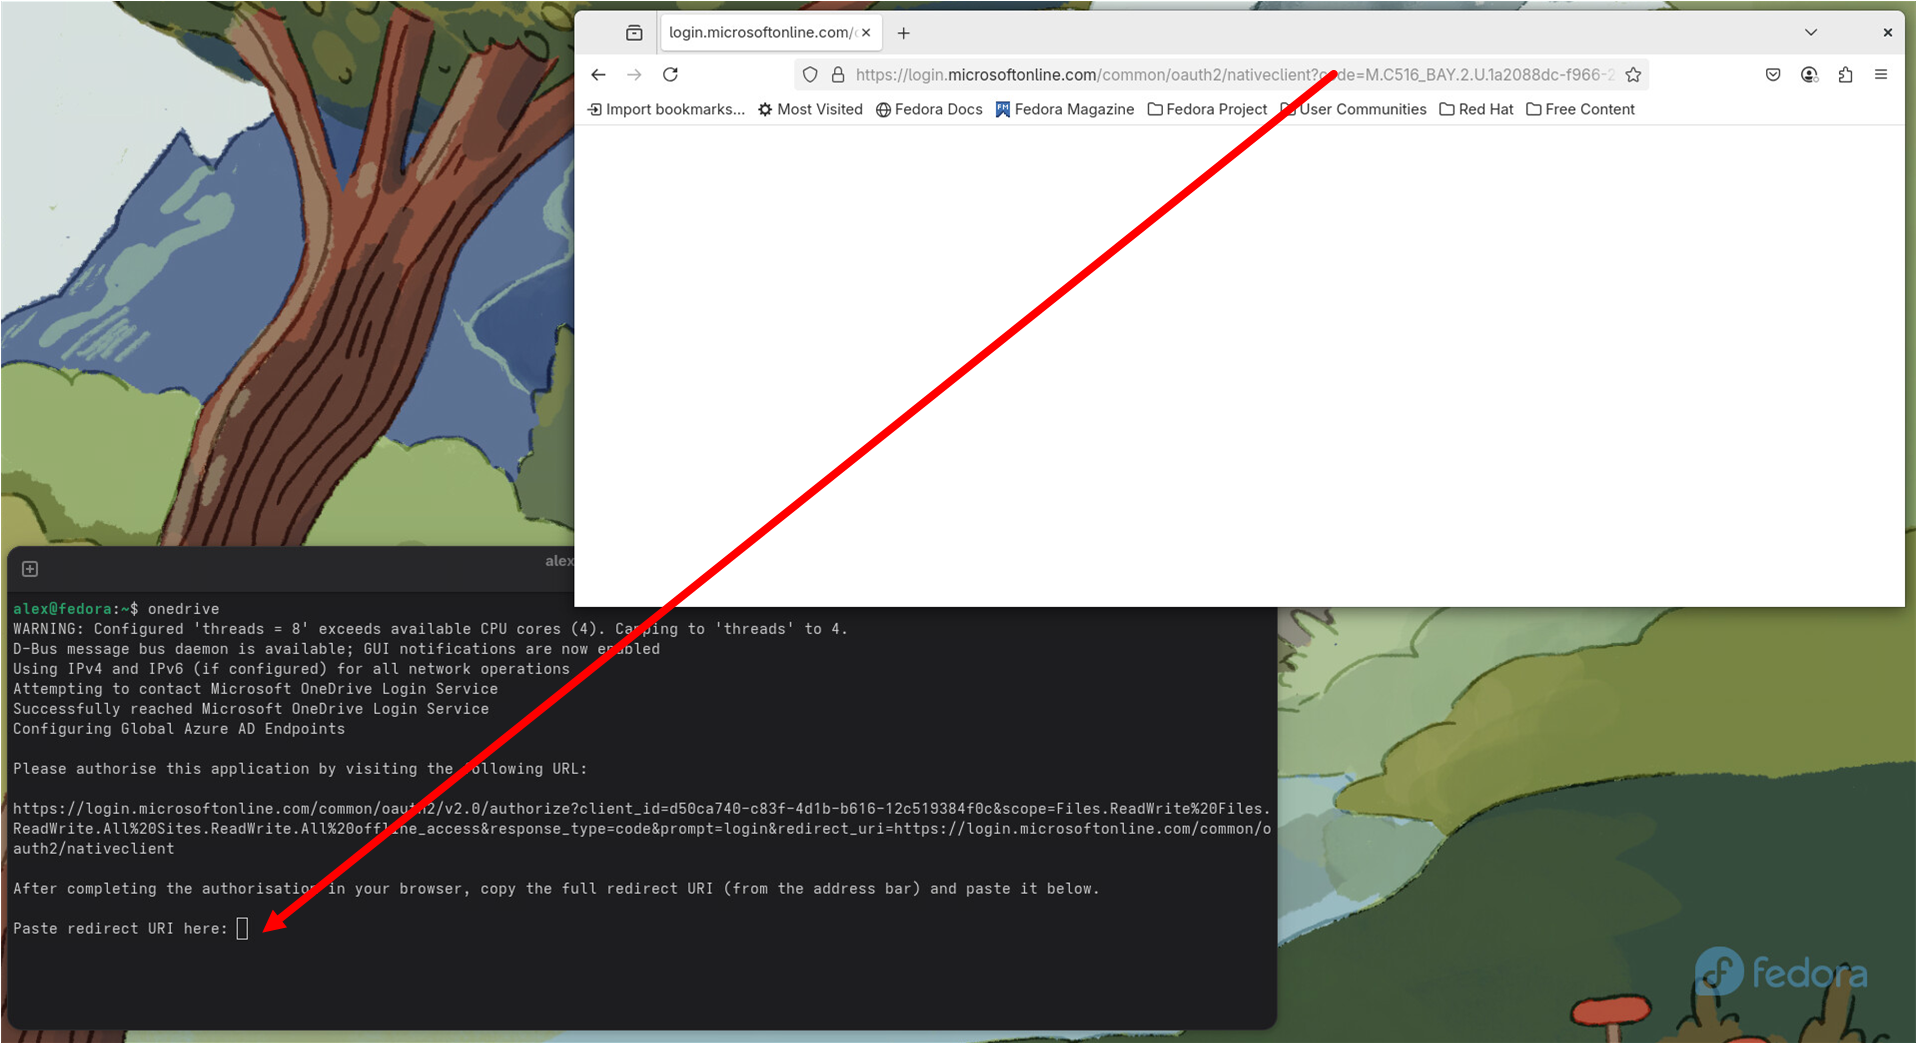
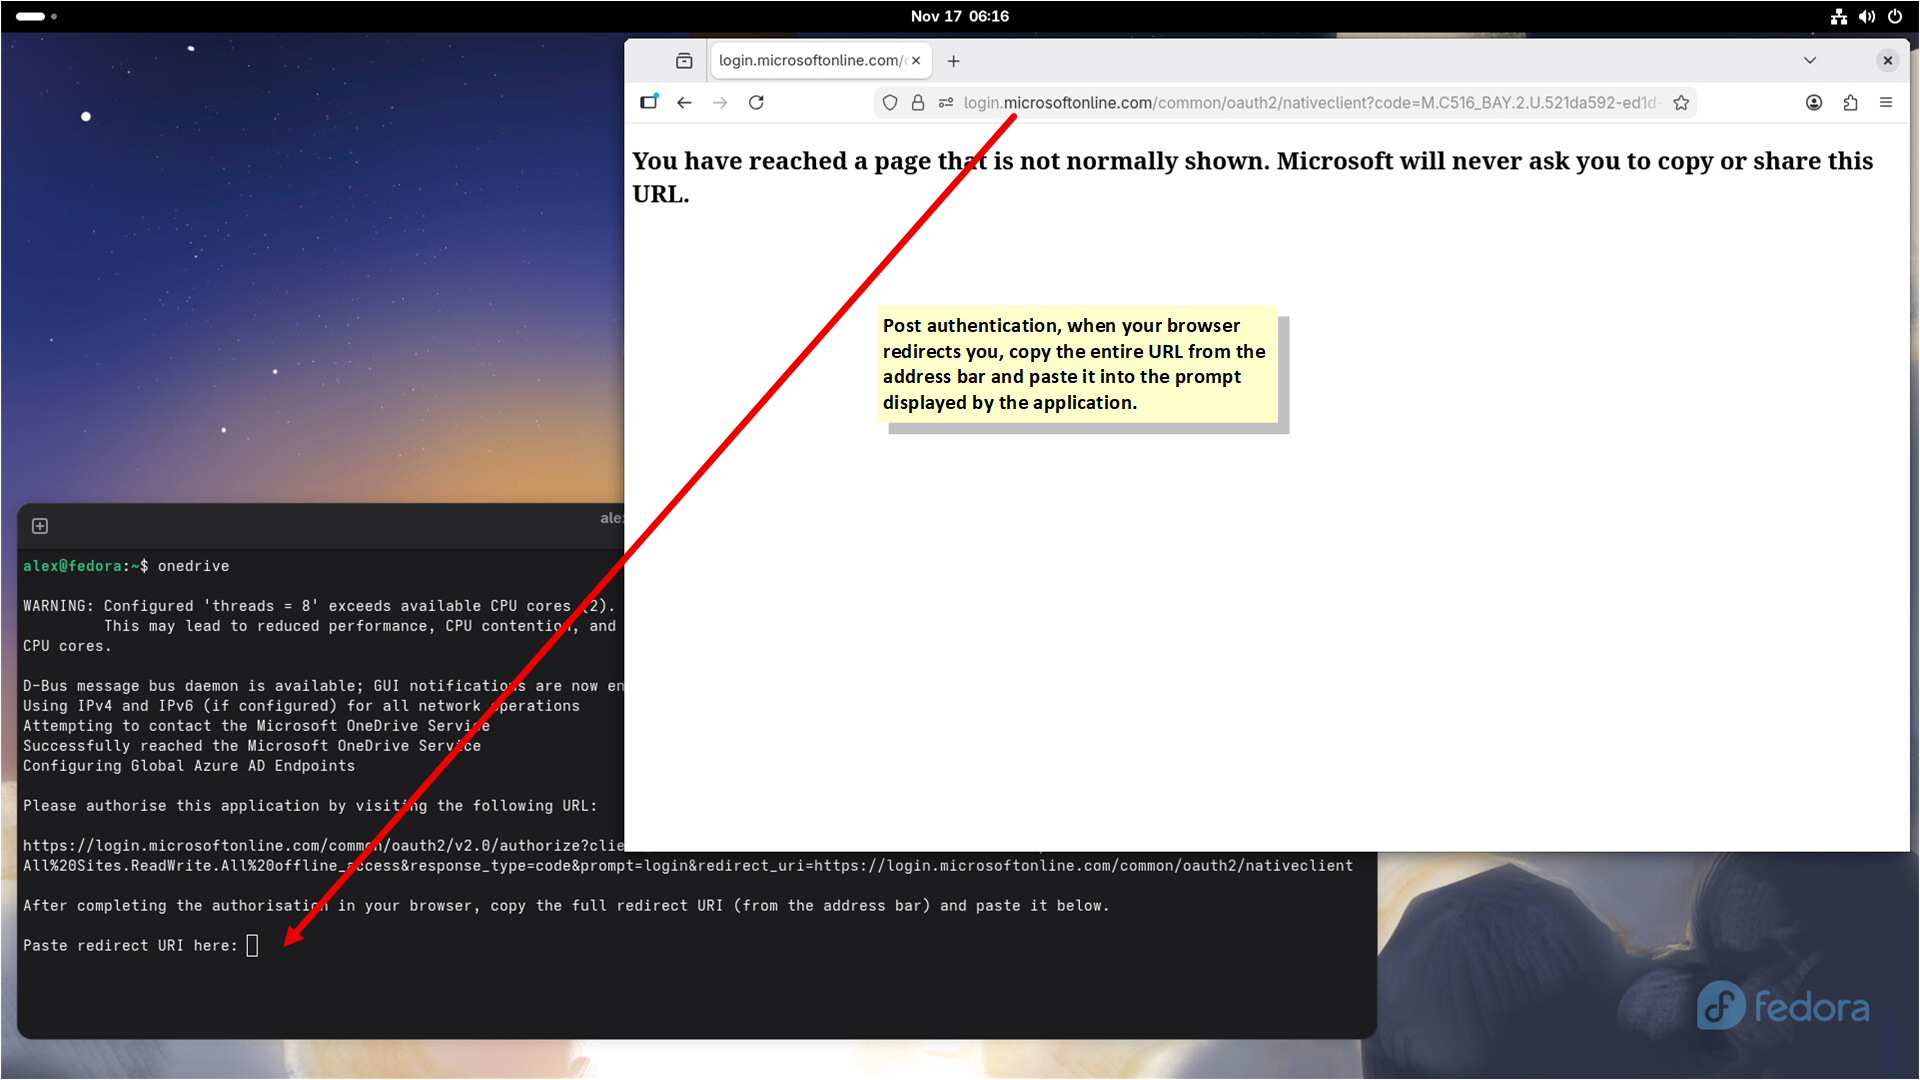
Update OAuth2 Authentication Process Diagrams (#3537)
* Update OAuth2 Authentication Process Diagrams

diff --git a/docs/usage.md b/docs/usage.md
@@ -362,7 +362,11 @@ This client supports the following methods to authenticate the application with 
 #### Interactive Authentication using OAuth2 and a redirect URI
 When you run the application for the first time, you'll be prompted to open a specific URL in your web browser. This URL takes you to the Microsoft login page, where you’ll sign in with your Microsoft Account and grant the application permission to access your files.
 
-After granting permission, your browser will redirect you to a blank page. This is expected behaviour.
+After granting permission, your browser will redirect you to a blank page, or a page that displays this message: 
+
+![microsoft-auth-display-message](./images/microsoft-auth-display-message.png)
+
+This is expected behaviour.
 
 At this point, copy the full redirect URI shown in your browser's address bar and paste it into the terminal where prompted.
 
@@ -391,7 +395,7 @@ user@hostname:~$
 
 ```
 
-**Interactive Authentication Process Illustrated:**
+**Interactive OAuth2 Authentication Process Illustrated:**
 ![initial_auth_url_access_redacted](./images/initial_auth_url_access_redacted.png)
 
 ![copy_redirect_uri_to_application](./images/authorise_client_before_copy_with_arrow.png)
